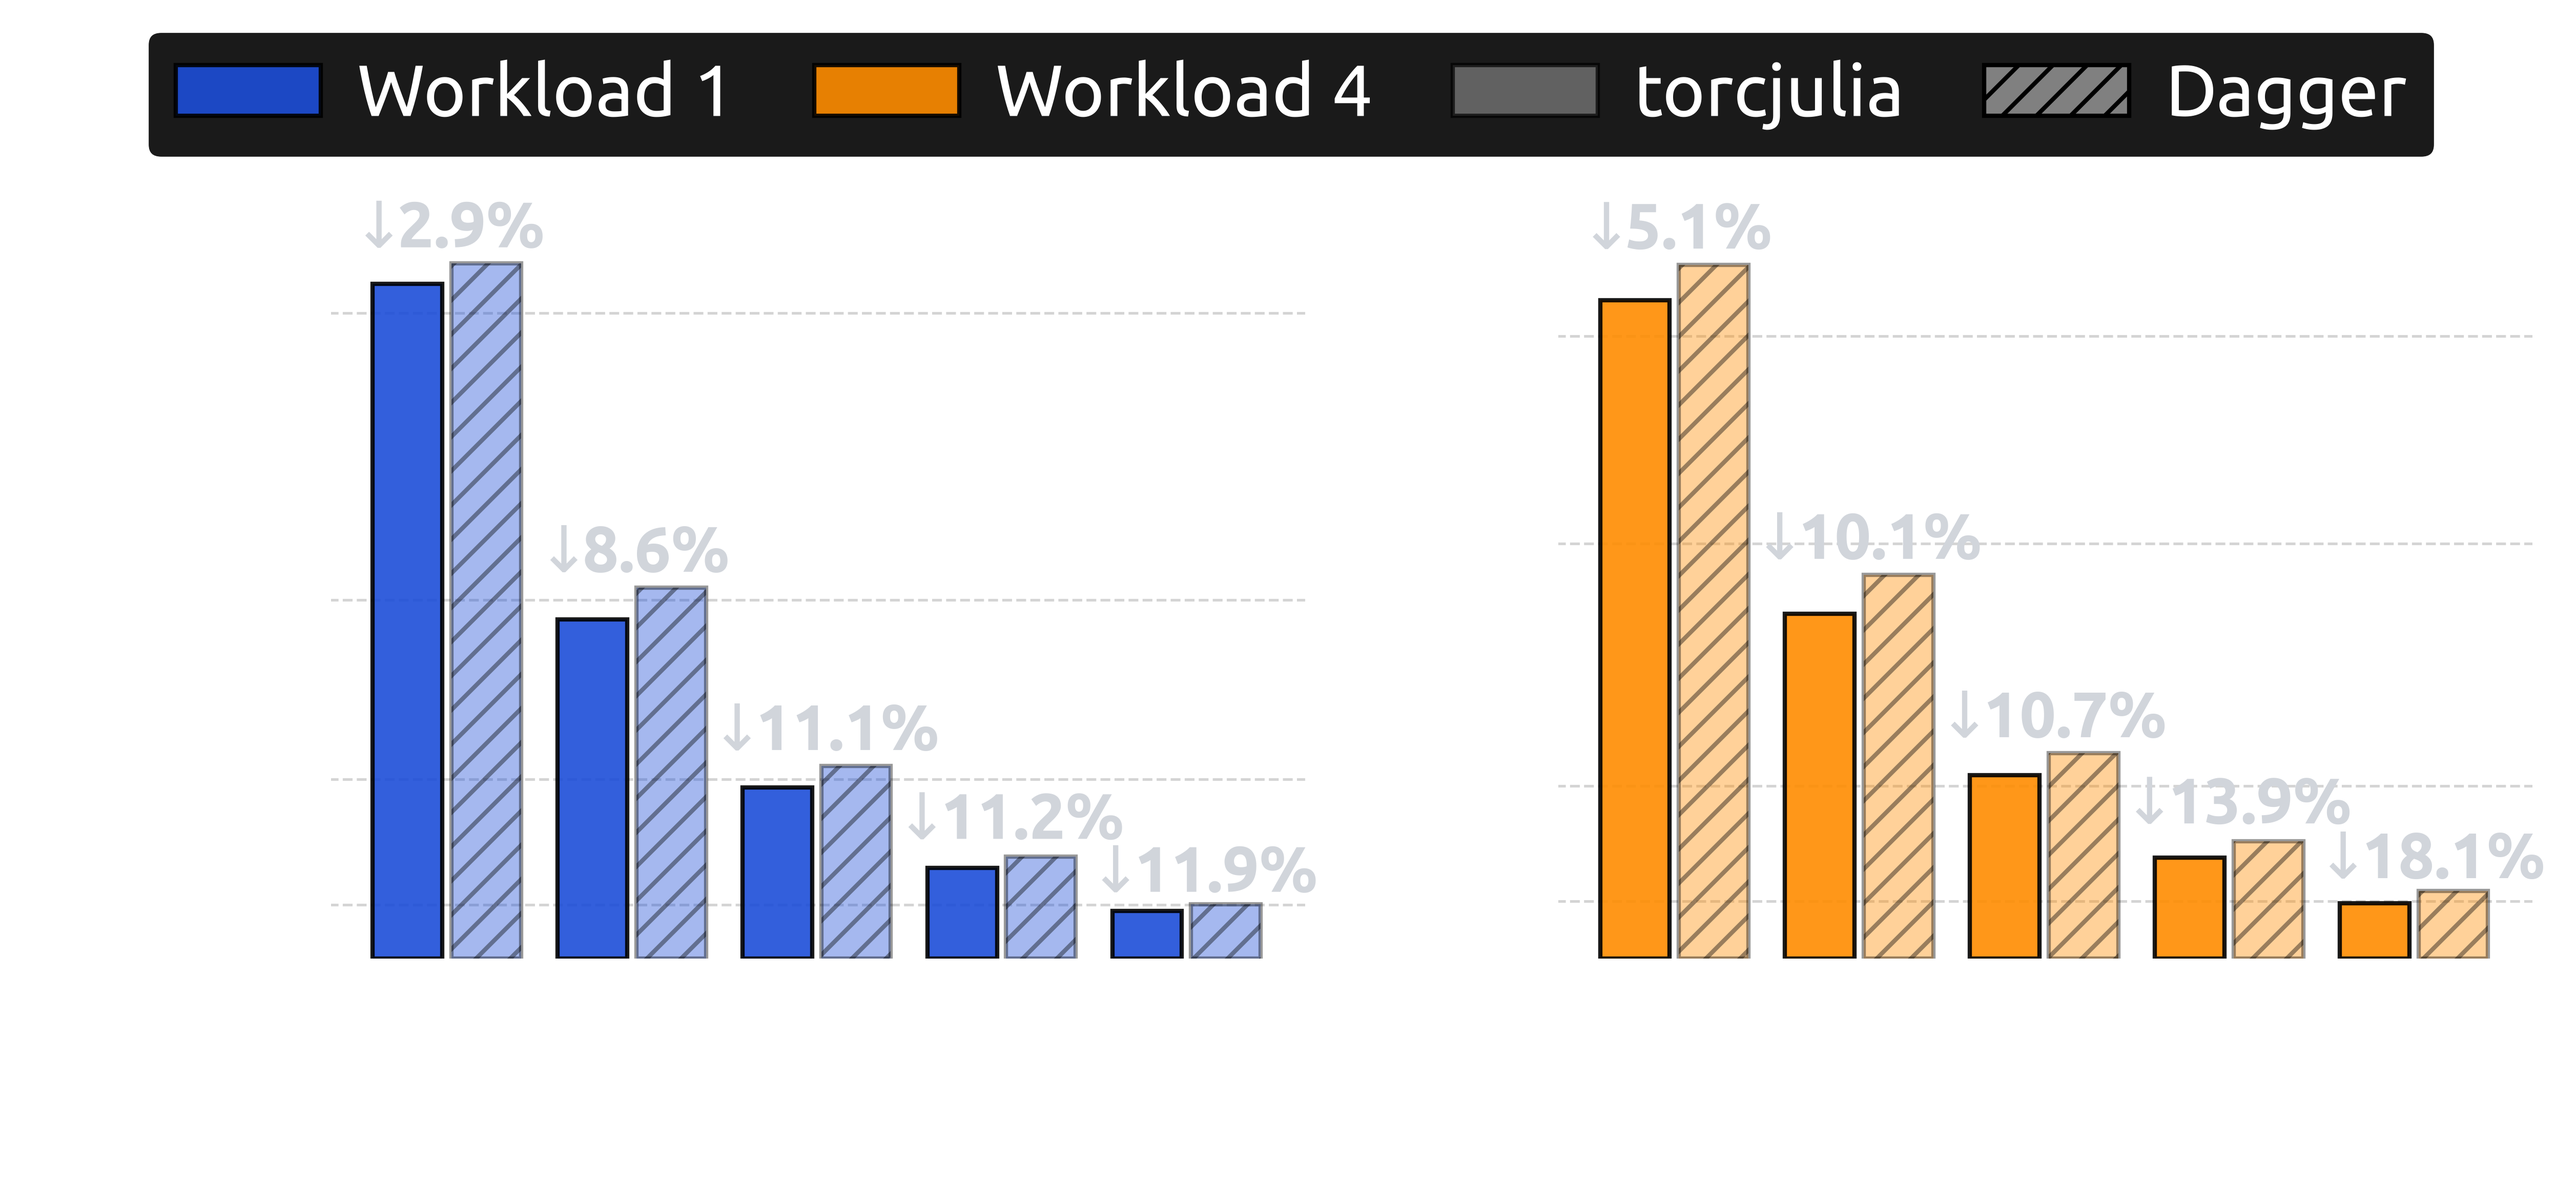
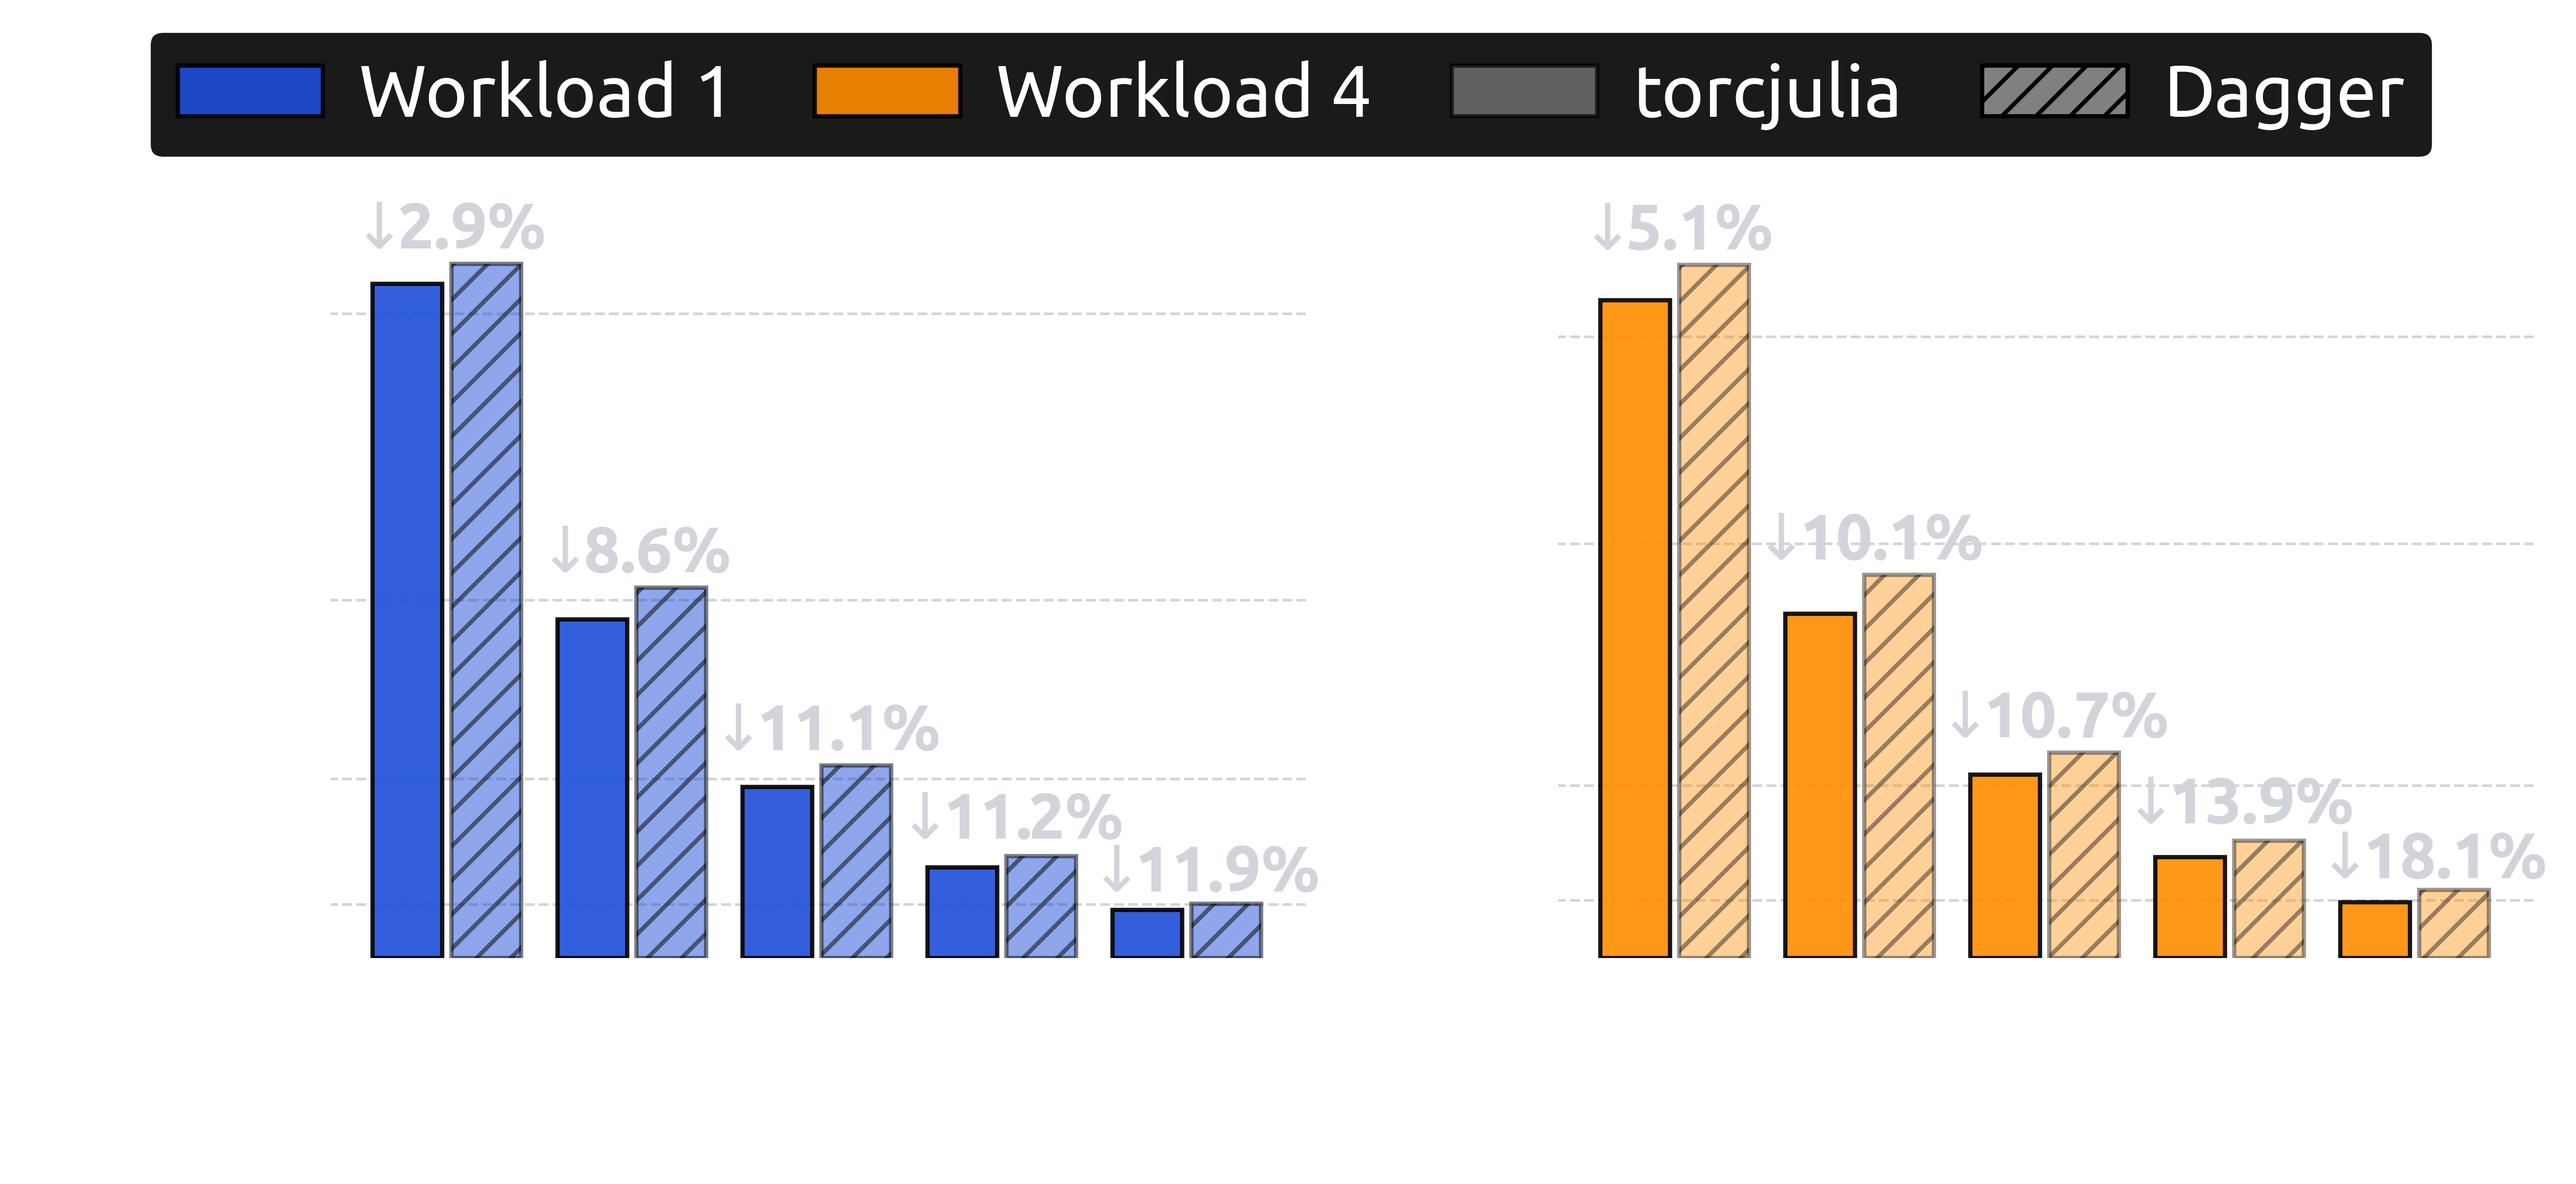
chore(scripts): adjust Workload 1 opacity in Figure 4

diff --git a/scripts/plots/dagger.py b/scripts/plots/dagger.py
@@ -165,7 +165,8 @@ for ax, (name, times) in zip(axes, workloads.items()):
     
     ax.bar(ranks - offset, times["torcjulia"], color = color, alpha = 0.9, edgecolor = 'black', linewidth = 1, width = bar_width, zorder = 3)
 
-    ax.bar(ranks + offset, times["Dagger"], color = color, alpha = 0.4, edgecolor = 'black', linewidth = 1, width = bar_width, zorder = 3, hatch = '///')
+    ax.bar(ranks + offset, times["Dagger"], color = color, alpha = 0.4 if name == "Workload 4" else 0.5, 
+           edgecolor = 'black', linewidth = 1, width = bar_width, zorder = 3, hatch = '///')
 
     gap_settings = {"Workload 1": {3: 3, 4: 0.15, "default": 2}, "default": {3: 9.99, 4: 0.451, "default": 6.66}}
 
